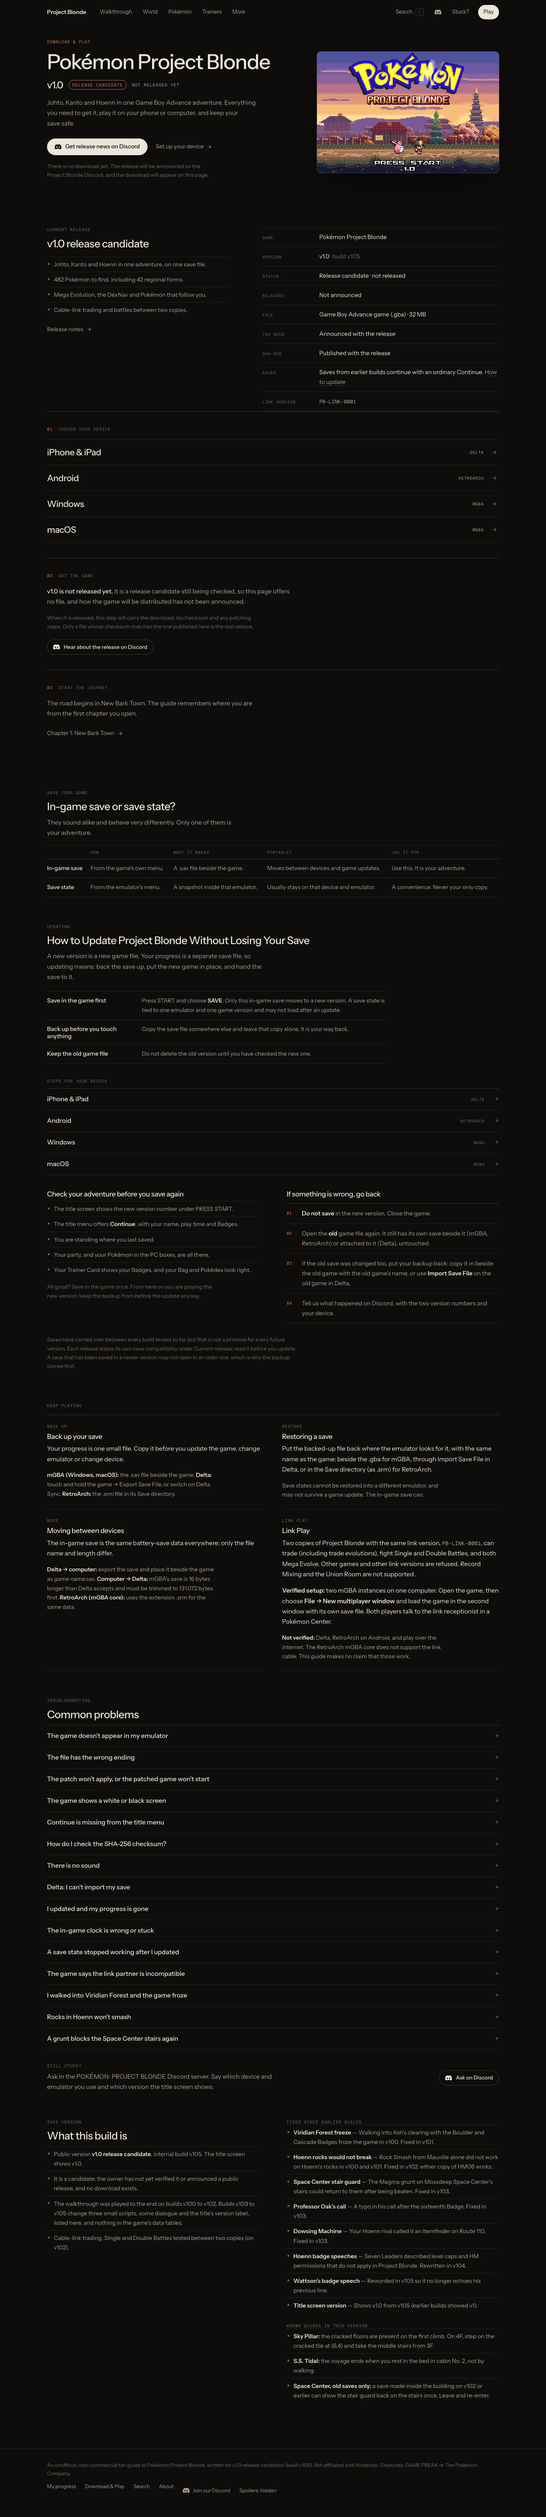
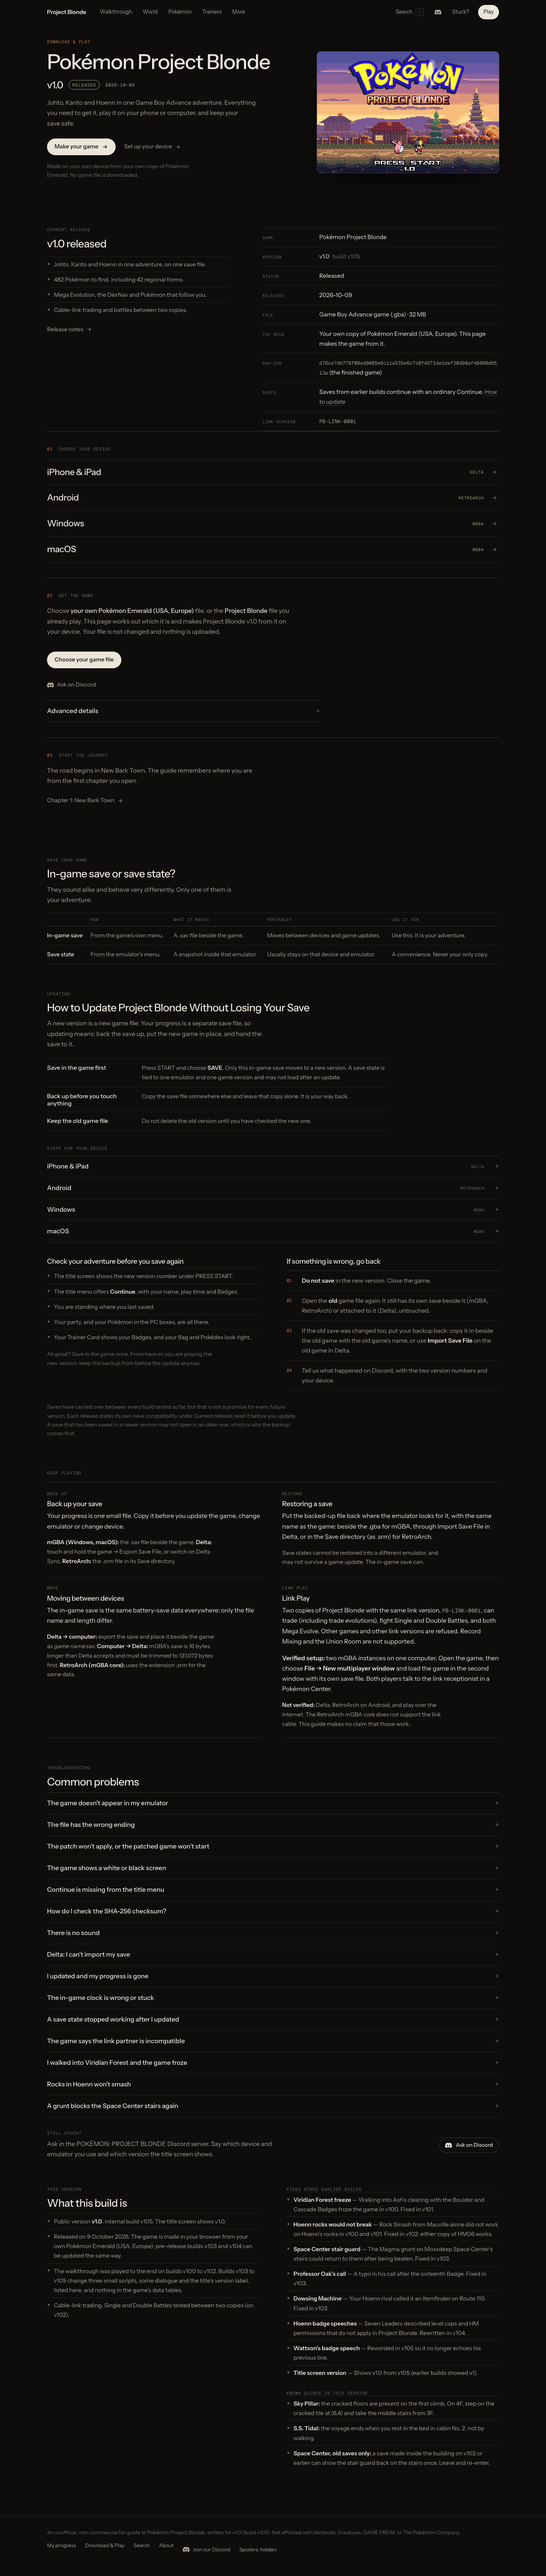
v1.0 launch: verification evidence, generated reports and launch record

diff --git a/DEPLOYMENT-STATUS.md b/DEPLOYMENT-STATUS.md
@@ -90,3 +90,15 @@ Not approved, so nothing is offered. If the owner chooses a patch release: a pat
 - Commit `3b36fc6` on `main` (branch `fix/map-rendering-pokemon-ui`, merged over `68426d5`: Download & Play, permanent Discord invite, favicon). Fast-forward push, Pages run 37931625494 succeeded.
 - Live checks, in a real browser: `qa_mapview.py` 159 of 159 (Faraway Island Interior anchor, image, zoom, pan, fit, markers, full screen; nine other maps; Probopass ROCK / STEEL; trainer teams), `qa_play.py` 134 of 134, `qa_pokedex.py` 136 of 136. The live `faraway-island-interior.png` has the audited hash `5c8284dd7f001f81`. Evidence: `qa-evidence/map-rendering/live*`.
 - Reports: `MAP-RENDERING-AUDIT.md`, `MAP-RENDERING-DEFECTS.md`, `MAP-RENDERING-REGRESSION.md`, `POKEMON-DATA-UI-AUDIT.md`.
+
+## v1.0 launch (2026-10-09)
+
+Published on the owner's instruction: the in-browser patcher on Download & Play, the release record set to released, the enabled registry and three patches under `site/assets/patches/v1.0/`. No complete game file is in the repository or the site.
+
+**Verified before publishing:** v105 ROM = manifest SHA-256 `d76ce7db…513a`, title label v1.0 (`version_label.py verify`); `tools/patches.py verify` (every patch reproduces v105 exactly and refuses every other input); `qa_patcher.py` 49 / 49; `qa_play.py` 130 / 130; `qa_browser.py` 107 / 107, sweep 0 failures; `qa_static.py` 0 failures; `qa_availability.py`, `qa_story.py` pass. Not tested: a physical iPhone, iOS Safari, Delta.
+
+**Supported inputs:** Pokémon Emerald (USA, Europe); pre-release builds v103 and v104. v100 to v102 are recognised and refused: no direct save test into v105 exists.
+
+**Live checks after a publish:** `tools/qa_patcher.py https://areyoublonde.github.io/project-blonde-guide` (needs `private/roms.json`), `tools/qa_play.py <same>`.
+
+To withdraw: set `enabled` to false in `content/patcher.json`, `status` back to `candidate` and `distribution.method` to `undecided`, delete `site/assets/patches/`, push.

diff --git a/AVAILABILITY-AUDIT.md b/AVAILABILITY-AUDIT.md
@@ -1,6 +1,6 @@
 # Pokémon availability audit
 
[2 lines of base64/hex data omitted]
 
 **Rule.** The Project Blonde public Pokédex must represent Pokémon legitimately obtainable in the current approved game build, not every species defined by the underlying ROM engine. Every future release must revalidate Pokémon availability before the website is redeployed.
 

diff --git a/PATCHER-MATRIX.md b/PATCHER-MATRIX.md
@@ -2,7 +2,7 @@
 
[1 lines of base64/hex data omitted]
 
-Registry `enabled`: **false** (no patcher and no patch file in the public build while false).
+Registry `enabled`: **true** (no patcher and no patch file in the public build while false).
 
 | Input | Recognised as | Offered to players | Input SHA-256 | Patch | Size (compressed) | Reproduces target exactly | Refuses every other input | Save status |
 |---|---|---|---|---|---|---|---|---|

diff --git a/PATCHER-PROTOTYPE.md b/PATCHER-PROTOTYPE.md
@@ -1,6 +1,6 @@
 # In-browser patcher ("Make your game"): private prototype
 
-Status: **prototype, not deployed, not enabled.** Project Blonde v1.0 (build v105) is a release candidate. `content/patcher.json` has `enabled: false`; a normal build contains no patcher, no registry and no patch file.
+Status on branch `launch-v1.0`: **enabled for v1.0, prepared but not published** (see `DEPLOYMENT-STATUS.md`). On `main` there is no patcher. A registry with `enabled: false` builds no patcher, registry or patch file.
 
 ## What it does
 

diff --git a/CONTENT-COVERAGE.md b/CONTENT-COVERAGE.md
@@ -1,6 +1,6 @@
 # Content coverage
 
-_Generated by `tools/build.py`. Game: v1.0 release candidate (build v105) (`d76ce7db778f…`)._
+_Generated by `tools/build.py`. Game: v1.0 (build v105) (`d76ce7db778f…`)._
 
 ## Pages
 
